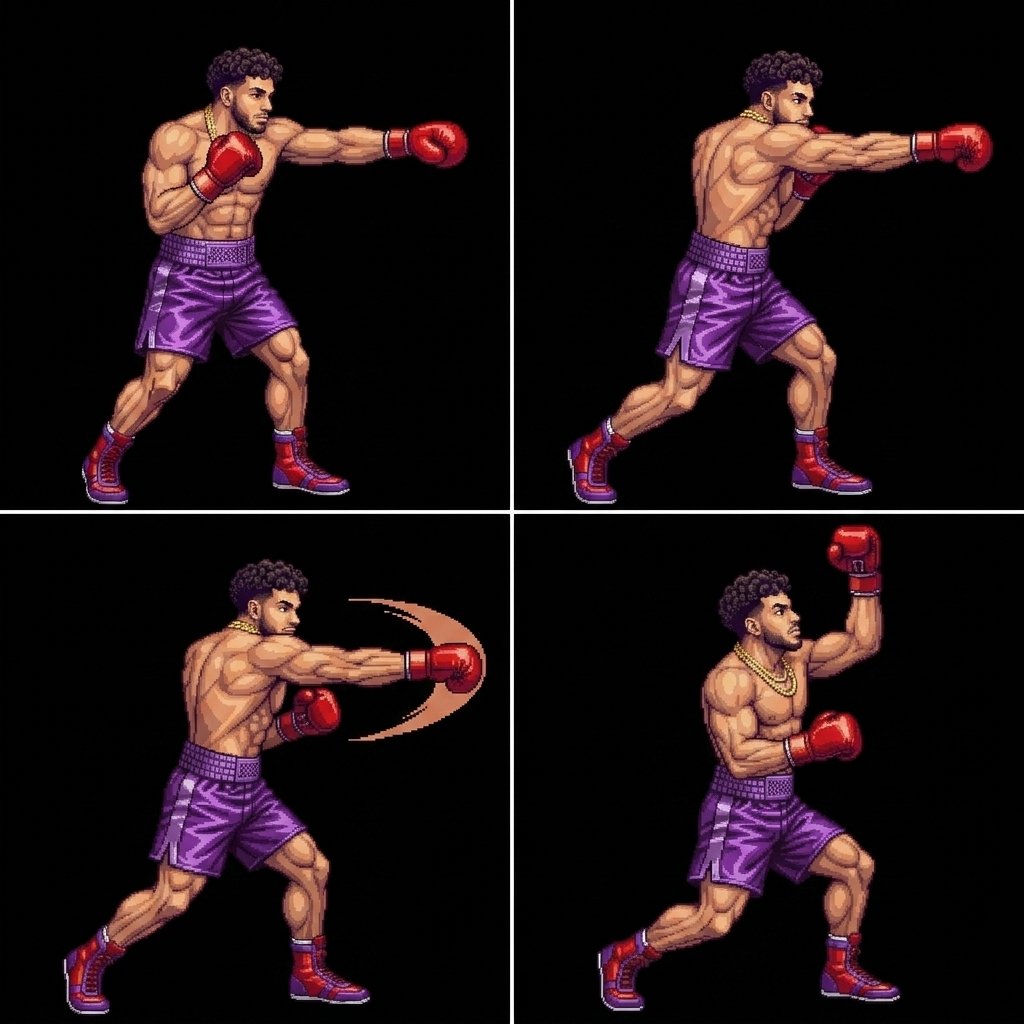
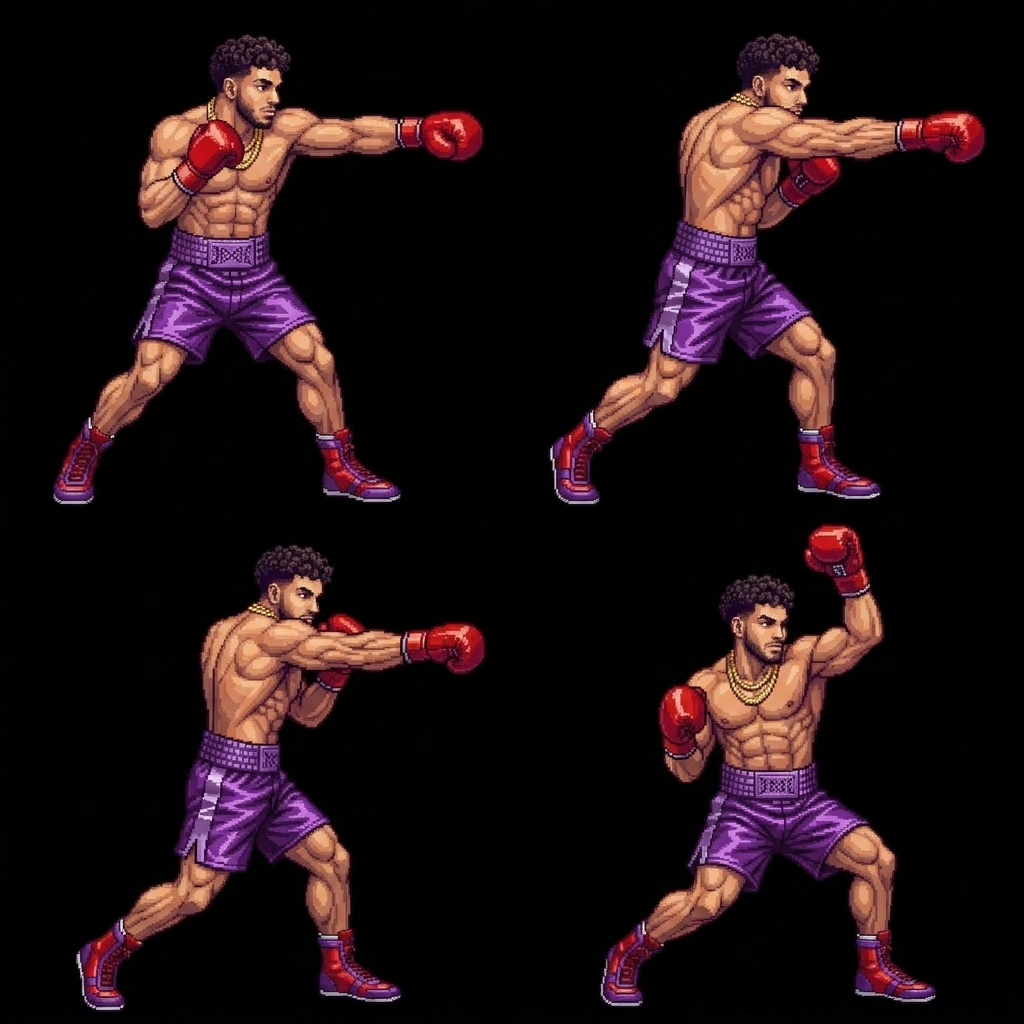
fix: regenerate punch sprites for tank, walid, rampage, adin, and chrisean to remove AI artifacts and bad backgrounds, update facing dict

diff --git a/test_sprites.html b/test_sprites.html
@@ -1,0 +1,25 @@
+<!DOCTYPE html>
+<html>
+<head>
+  <style>
+    body { background: #333; color: white; font-family: monospace; }
+    .row { display: flex; align-items: center; margin-bottom: 10px; border-bottom: 1px solid #555; }
+    img { width: 100px; height: auto; image-rendering: pixelated; margin-right: 10px; }
+    .label { width: 100px; font-weight: bold; }
+  </style>
+</head>
+<body>
+  <script>
+    const ids = ['broner', 'deen', 'ryan', 'n3on', 'rayj', 'blueface', 'chrisean', 'rampage', 'adin', 'charleston', 'walid', 'abrown', 'tank', 'floyd'];
+    ids.forEach(id => {
+      document.write(`
+        <div class="row">
+          <div class="label">${id}</div>
+          <img src="assets/${id}_sprite.jpg" alt="${id} idle" />
+          <img src="assets/${id}_punches.jpg" alt="${id} punches" />
+        </div>
+      `);
+    });
+  </script>
+</body>
+</html>

diff --git a/index.html b/index.html
@@ -1834,7 +1834,7 @@
         rampage:    { idle: 'L', punch: 'R' },
         adin:       { idle: 'L', punch: 'R' },
         charleston: { idle: 'R', punch: 'R' },
-        walid:      { idle: 'R', punch: 'L' },
+        walid:      { idle: 'R', punch: 'R' },
         abrown:     { idle: 'L', punch: 'R' },
         tank:       { idle: 'R', punch: 'R' },
         floyd:      { idle: 'L', punch: 'R' }
